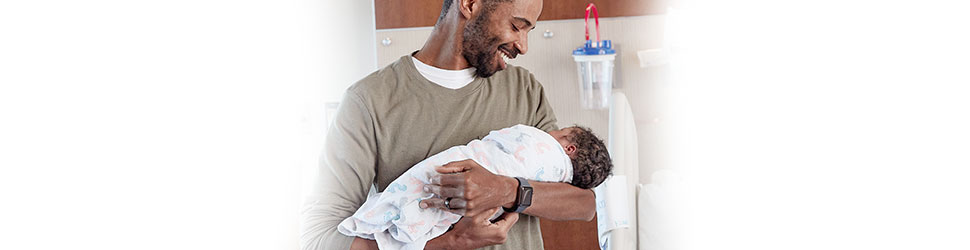
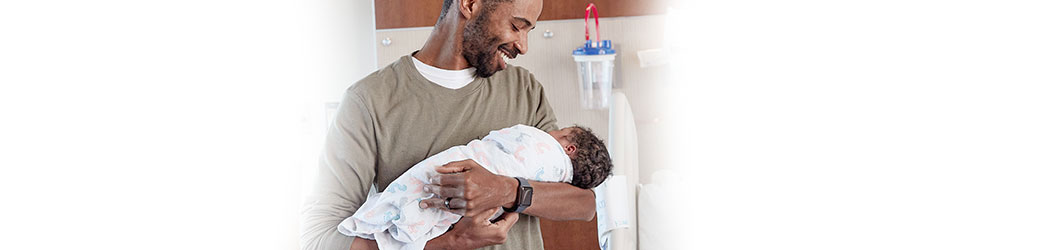
updates to 970 v2

Changed region(s): [[0.2784, 0.0, 0.7113, 1.0]]

diff --git a/demopage/BSW/BSWH-LD_Animations/img/970x250_v2/index.html b/demopage/BSW/BSWH-LD_Animations/img/970x250_v2/index.html
@@ -116,6 +116,41 @@
 		#image_04 #img04 {
 			position: relative;
 			left: 30px;
+			transform: scale(1.15);
+		}
+
+
+		#green_overlay_02 {
+			position: absolute;
+			top: -4000px;
+			left: 1200px;
+			width: 3800px;
+			height: 5000px;
+			background-color:#7ce0d3;
+			transform: rotate(45deg);
+			opacity: 1;
+		}
+
+		#pink_overlay_02 {
+			position: absolute;
+			top: -4000px;
+			left: 1200px;
+			width: 3800px;
+			height: 5000px;
+			background-color:#f59aa9;
+			transform: rotate(45deg);
+			opacity: 1;
+		}
+
+		#purple_overlay_02 {
+			position: absolute;
+			top: -350px;
+			left: 1500px;
+			width: 1200px;
+			height: 1200px;
+			background-color:#b482ba;
+			transform: rotate(-45deg);
+			opacity: 1;
 		}
 
 		#image_01 #blue_overlay {
@@ -160,8 +195,8 @@
 
 		#image_01 #blue_overlay {
 			clip-path: url(#clipMask);
-			top: 0px;
-			width: 200%;
+			top: -250px;
+			width: 400%;
 		}
 
 		#image_02 #green_overlay {
@@ -172,15 +207,27 @@
 
 		#image_03 #pink_overlay {
 			clip-path: url(#clipMask_02);
-			top: -250px;
+			top: 0px;
 			width: 200%;
 			height: 200%;
 		}
 
-		#white_overlay {
+		/* #white_overlay {
 			position: absolute;
 			top: -100px;
 			left: 1200px;
+			width: 500px;
+			height: 800px;
+			background: #fff;
+			opacity: 0.15;
+			 transform: rotate(45deg); 
+
+		} */
+
+		#white_overlay {
+			position: absolute;
+			top: -100px;
+			left: 630px;
 			width: 500px;
 			height: 800px;
 			background: #fff;
@@ -192,8 +239,8 @@
 		#txt_01 {
 			position: absolute;
 			clip: rect(0px,500px,190px,0px);
-			top: 0px;
-			left: 20px;
+			top: 20px;
+			left: 40px;
 			opacity: 0;
 		}
 
@@ -209,8 +256,8 @@
 		#txt_03 {
 			position: absolute;
 			clip: rect(410px,500px,620px,0px);
-			top: -380px;
-			left: 20px;
+			top: -395px;
+			left: 30px;
 			opacity: 0;
 		}
 
@@ -234,6 +281,15 @@
 			top: 78px;
 			left: 50px;
 			opacity: 0;
+		}
+
+		#whiteBG {
+			position:absolute;
+			top: 0;
+			left: 0;
+			width: 970px;
+			height: 250px;
+			background-color: #fff;
 		}
 
 		/*End YOUR CSS
@@ -286,6 +342,11 @@
 				var purple_overlay = document.getElementById('purple_overlay');
 				var white_overlay = document.getElementById('white_overlay');
 
+
+				var green_overlay_02 = document.getElementById('green_overlay_02');
+				var pink_overlay_02 = document.getElementById('pink_overlay_02');
+				var purple_overlay_02 = document.getElementById('purple_overlay_02');
+
 				var ctaBtn = document.getElementById('ctaBtn');
 
 				//Timeline Function - can set multiple Timelines
@@ -305,58 +366,61 @@
 				 //FRAME 01 - IN
 				 //========================================================================
 				 var shine = CSSRulePlugin.getRule("#ctaBtn::before"); //get the rule
-				 tl_main.to(blue_overlay, 1, { top:"-250px", ease: Power1.easeOut})
-						 .to(image_01, 1, { opacity:1},"-=1.0")
-						 .to(txt_01, 2.5, { opacity:1, y:"23px", ease: Power2.easeOut},"-=1.0")
-						 //slide image
-						 .to(inner_image_01, 6, { x:"20px", scaleX:"1", scaleY:"1", ease: Power2.easeOut},"-=3.0")
+				  tl_main.to(image_01, 1, { opacity:1, ease: Power2.easeOut})
+				  		.to(txt_01, 1, {  opacity:1, ease: Power2.easeOut},"-=1.0")
+						 .to(txt_01, 6, {  x:"-23px", ease: Power2.easeOut},"-=1.0")
+						 .to(inner_image_01, 6.5, { x:"20px", scaleX:"1", scaleY:"1", ease: Power2.easeOut},"-=6.0")
 
 
 				 //FRAME 01 - OUT
 				 //========================================================================
+				 		.to(green_overlay_02, 1, { left:"-500px",},"-=3.0")
+						.to(green_overlay_02, 1, { opacity:0 },"-=0.2")
 						.to(image_01, 1, { opacity:0, ease: Power2.easeOut},"-=3.0")
-						.to(txt_01, 1, { opacity:0, ease: Power2.easeOut},"-=1.0")
+						.to(txt_01, 0.3, { opacity:0, ease: Power2.easeOut},"-=3.0")
 
 				 //FRAME 02 - IN
 				 //========================================================================
-				 	     .to(image_02, 1, { opacity:1},"-=3.0")
-						 .to(txt_02, 2.5, { opacity:1, x:"23px", ease: Power2.easeOut},"-=2.5")
-						 //grow image
-						 .to(inner_image_02, 6, { x:"-20px", ease: Power2.easeOut},"-=3.0")
+				 	     .to(image_02, 1, { opacity:1},"-=3.7")
+						  .to(txt_02, 1, { opacity:1, ease: Power2.easeOut},"-=3.5")
+						 .to(txt_02, 6, { x:"23px", ease: Power2.easeOut},"-=3.5")
+						 .to(inner_image_02, 6.5, { x:"-20px", ease: Power2.easeOut},"-=6.0")
 
 
 				 //FRAME 02 - OUT
 				 //========================================================================
+				 		.to(pink_overlay_02, 1, { left:"-500px",},"-=3.0")
+						.to(pink_overlay_02, 1, { opacity:0 },"-=0.2")
 						.to(image_02, 1, { opacity:0, ease: Power2.easeOut},"-=3.0")
-						.to(txt_02, 1, { opacity:0, ease: Power2.easeOut},"-=1.0")
+						.to(txt_02, 0.3, { opacity:0, ease: Power2.easeOut},"-=3.2")
 
 
 				 //FRAME 03 - IN
 				 //========================================================================
-						//  .set(clipMask_02, {y:"-400px"},"-=3.0")
-				 		 .to(pink_overlay, 1, { top:"0px", ease: Power1.easeOut},"-=3.0")
-						 .to(image_03, 1, { opacity:1},"-=3.0")
-						 .to(txt_03, 2.5, { opacity:1, y:"-23px", ease: Power2.easeOut},"-=2.5")
-						 //shrink image
-						 .to(inner_image_03, 6, { x:"20px", ease: Power2.easeOut},"-=3.0")
+						 .to(image_03, 1, { opacity:1},"-=3.7")
+						 .to(txt_03, 1, { opacity:1, ease: Power2.easeOut},"-=3.4")
+						 .to(txt_03, 6, { x:"-10px", ease: Power2.easeOut},"-=3.4")
+						 .to(inner_image_03, 6, { x:"20px", ease: Power2.easeOut},"-=6.0")
 
 
 				 //FRAME 03 - OUT
 				 //========================================================================
+				 		.to(purple_overlay_02, 1, { left:"-200px",},"-=3.0")
+						.to(purple_overlay_02, 1, { opacity:0 },"-=0.2")
 				 		.to(image_03, 1, { opacity:0, ease: Power2.easeOut},"-=3.0")
-						.to(txt_03, 1, { opacity:0, ease: Power2.easeOut},"-=2.0")
-						.to(bsw_logo, 1, { opacity:0, ease: Power2.easeOut},"-=3.0")
+						.to(txt_03, 0.3, { opacity:0, ease: Power2.easeOut},"-=3.5")
+						.to(bsw_logo, 0.3, { opacity:0, ease: Power2.easeOut},"-=3.7")
 
 
 				  //FRAME 04 - IN
 				 //========================================================================
-						 .to(image_04, 1, { opacity:1},"-=3.0")
+						 .to(image_04, 1, { opacity:1},"-=3.7")
 						 .to(white_overlay, 1, { left:"630px",},"-=3.0")
-						 .to(inner_image_04, 6, { ease: Power2.easeOut},"-=3.0")
+						 .to(inner_image_04, 6, { scaleX:"1", scaleY:"1", ease: Power2.easeOut},"-=3.7")
 
-						 .to(bsw_icon, 2, { opacity:1, ease: Power2.easeOut},"-=5.0")
-						 .to(txt_04, 2, { opacity:1, ease: Power2.easeOut},"-=5.0")
-						 .to(ctaBtn, 1, { opacity:1},"-=4.5")
+						 .to(bsw_icon, 1, { opacity:1, ease: Power2.easeOut},"-=5.5")
+						 .to(txt_04, 2, { opacity:1, ease: Power2.easeOut},"-=5.7")
+						 .to(ctaBtn, 1, { opacity:1},"-=5.9")
 
 						 .to(shine, 1, {cssRule:{left:"245px"},  ease: Power1.easeOut},"-=5.5")
 						
@@ -370,7 +434,7 @@
 				   <!--Background Image -->
 				   <!-- <div id="TEMP"><img src="_temp/temp_04.jpg"></div> -->
 				   <!--HTML ELEMENTS HERE-->
-
+				  
 				   <!--HORIZONTAL MASK-->
 				   <svg version="1.1" xmlns="http://www.w3.org/2000/svg" xmlns:xlink="http://www.w3.org/1999/xlink" x="0px" y="0px"
 				   viewBox="0 0 970 500" style="enable-background:new 0 0 970 500;" xml:space="preserve">
@@ -388,30 +452,37 @@
 				 </svg>
 				  
 				   <div id="image_01">
-					   <img id="img01" src="image_01.jpg">
+						<img id="img01" src="image_01.jpg">
 					   <div id="blue_overlay"></div>
+					   <div id="txt_01"><img src="text_sheet.png" alt="We’ve seen a million first moments"></div>
+					   <div id="green_overlay_02"></div>
+					  
 					</div>
-					<div id="txt_01"><img src="text_sheet.png" alt="We’ve seen a million first moments"></div>
+					
 				
 						<div id="image_02">
 							<img id="img02" src="image_02.jpg">
 							<div id="green_overlay"></div>
-							</div>
 							<div id="txt_02"><img src="text_sheet.png" alt="to make sure we’re ready for"></div>
-
+							<div id="pink_overlay_02"></div>
+							</div>
+							
 								<div id="image_03">
+									
 									<img id="img03" src="image_03.jpg">
 									<div id="pink_overlay"></div>
-									</div>
 									<div id="txt_03"><img src="text_sheet.png" alt="We’ve seen a million first moments"></div>
+									<div id="purple_overlay_02"></div>
+									</div>
 
 										<div id="image_04">
 											<img id="img04" src="image_04.jpg">
 											<div id="purple_overlay"></div>
-											</div>
 											<div id="white_overlay"></div>
+											</div>
+										
 											<div id="txt_04"><img src="text_sheet.png" alt="this moment right here."></div>
-
+											
 					<div id="bsw_logo"><img src="bswh_logo.png" alt="bswh logo"></div>
 					<div id="bsw_icon"><img src="bsw_icon.png" alt="bsw icon"></div>
 
